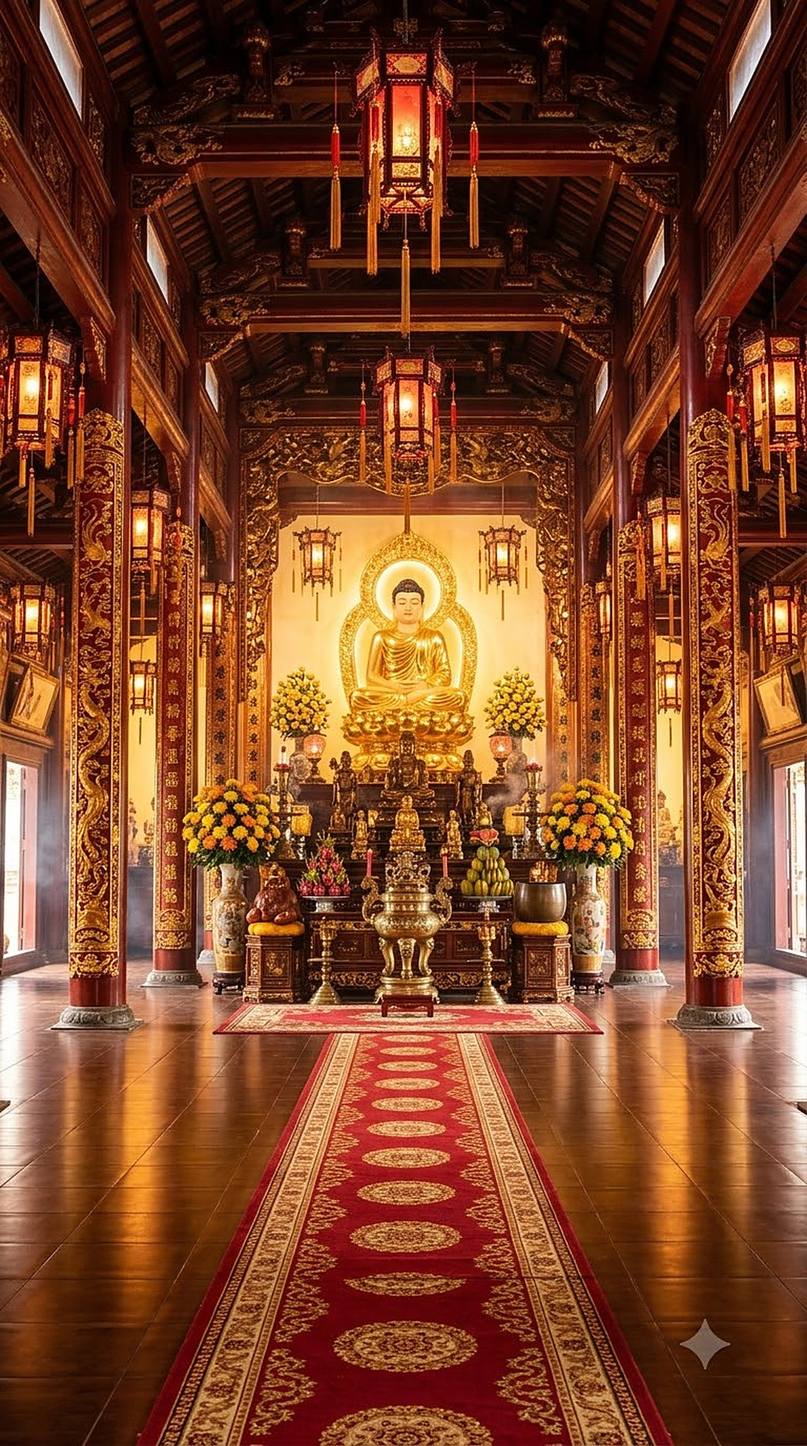
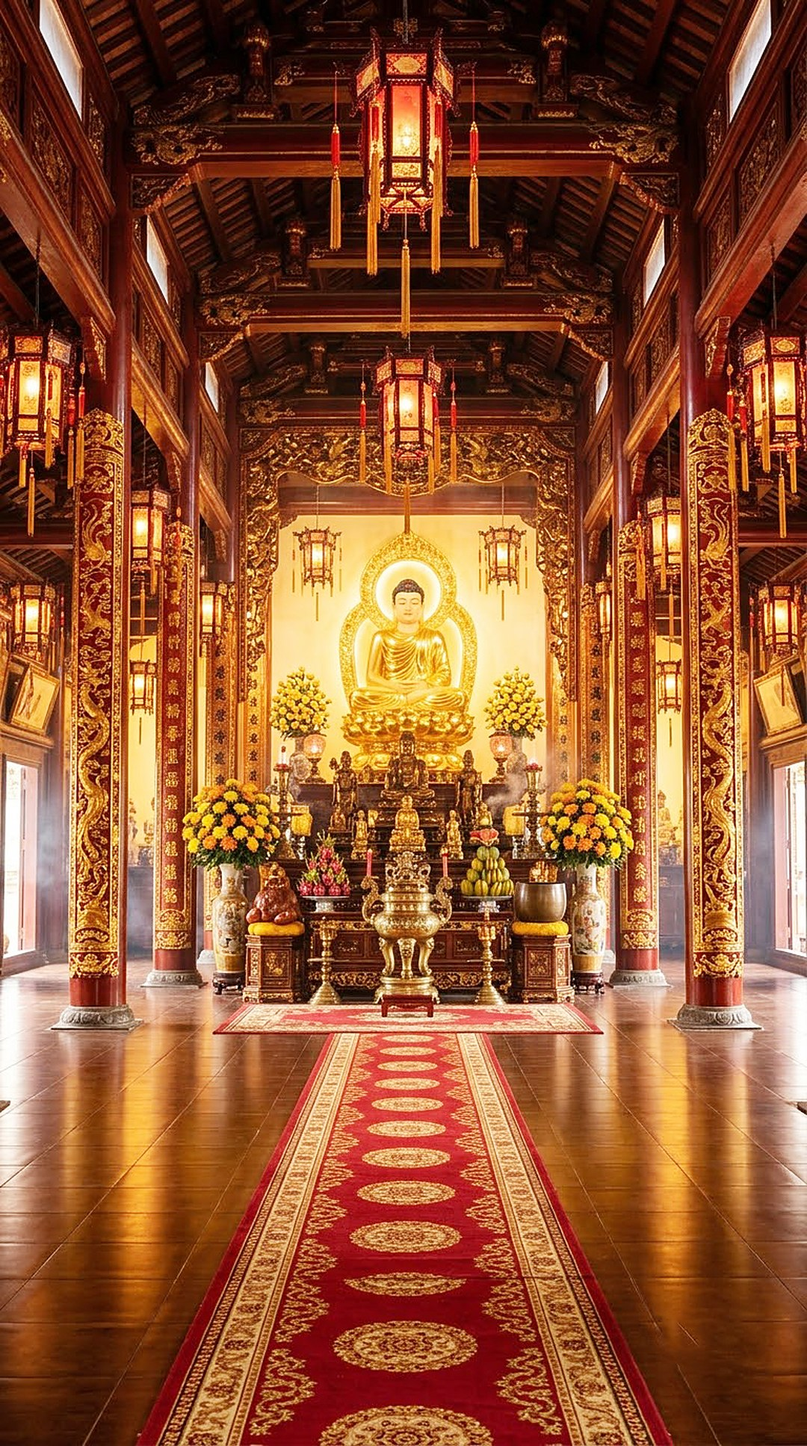
Anh chanh dien moi + huong dan ket noi YouTube, Facebook
- Render lai public/img/chanh-dien.jpg tu anh goc sep sua (1080x1935)
- docs/HUONG-DAN-YOUTUBE-FACEBOOK.md: handle YouTube, token Trang Facebook, OBS, chay 2 OBS
- config.example.json: YouTube dung handle

diff --git a/docs/HUONG-DAN-YOUTUBE-FACEBOOK.md b/docs/HUONG-DAN-YOUTUBE-FACEBOOK.md
@@ -1,0 +1,109 @@
+# Kết nối YouTube và Facebook Live
+
+Mỗi nền tảng có **khung overlay riêng**, bảng vàng / bộ đếm / giọng đọc riêng:
+
+| Nền tảng | Overlay (Browser source trong OBS) | Đọc bình luận bằng |
+|---|---|---|
+| TikTok | `http://localhost:3100/tiktok` (LIVE Studio → Link) | tên kênh TikTok |
+| YouTube | `http://localhost:3100/youtube` | @handle kênh (không cần API key) |
+| Facebook | `http://localhost:3100/facebook` | Page ID + Page Access Token |
+
+> Mỗi overlay chỉ mở **một chỗ** (một Browser source). Mở thêm ở tab trình duyệt sẽ đọc giọng 2 lần.
+
+---
+
+## 1. YouTube
+
+### 1.1. Chuẩn bị kênh (làm 1 lần)
+1. Vào **studio.youtube.com** → **Tạo** → **Phát trực tiếp**.
+2. Lần đầu YouTube bắt xác minh số điện thoại và **chờ tối đa 24 giờ** mới cho live.
+3. Lấy **@handle** kênh: góc phải YouTube → ảnh đại diện → dòng `@ten_kenh`.
+
+### 1.2. Khai báo trong `config.json`
+```json
+"youtube": { "enabled": true, "demo": false, "handle": "@ten_kenh" }
+```
+Khởi động lại server. Khi kênh chưa live, cửa sổ server báo `kênh chưa live → thử lại sau 60 giây`; lên live sẽ báo `[youtube] đang đọc chat live`.
+
+### 1.3. Lấy khoá luồng
+YouTube Studio → **Phát trực tiếp** → thẻ **Luồng (Stream)**:
+- Chế độ hiển thị: **Công khai** (để server tìm được buổi live qua @handle).
+- Bật **Trò chuyện trực tiếp (Live chat)**.
+- Độ trễ: **Độ trễ thấp**.
+- Sao chép **Khoá sự kiện trực tiếp (Stream key)**.
+
+> Muốn để **Không công khai**: điền thêm `"liveId": "<mã sau watch?v=>"` thay cho `handle`, mỗi buổi đổi mã.
+
+### 1.4. OBS
+1. **Cài đặt → Luồng**: Dịch vụ **YouTube - RTMPS** → **Sử dụng khoá luồng** → dán khoá.
+2. **Cài đặt → Video**: Độ phân giải nền **1080x1920**, đầu ra **1080x1920** (máy yếu: 720x1280), **30 FPS**.
+3. **Cài đặt → Đầu ra**: Bitrate **4500–6000 Kbps**, Khoảng khung hình chính **2 giây**, bộ mã hoá **NVENC** nếu máy có card NVIDIA.
+4. Thêm nguồn **Trình duyệt (Browser)**:
+   - URL: `http://localhost:3100/youtube`
+   - Rộng **1080**, Cao **1920**
+   - ✔ **Điều khiển âm thanh qua OBS** (để giọng đọc vào luồng)
+   - ✔ Tắt nguồn khi không hiển thị: **bỏ chọn**
+5. **Bắt đầu phát trực tiếp**. YouTube tự xếp live dọc vào mục Shorts.
+
+---
+
+## 2. Facebook (phải live trên **Trang**, không phải trang cá nhân)
+
+Facebook chỉ cho phần mềm đọc bình luận live của **Trang (Page)** mà sếp quản trị.
+
+### 2.1. Lấy Page ID
+Vào Trang → **Giới thiệu** → **Minh bạch trang** → dòng **ID Trang** (một dãy số).
+
+### 2.2. Tạo ứng dụng để lấy token (làm 1 lần)
+1. Vào **developers.facebook.com** → **Ứng dụng của tôi** → **Tạo ứng dụng**.
+   - Trường hợp sử dụng: **Khác** → Loại: **Doanh nghiệp** → đặt tên (vd `Chua Online`).
+   - Để ứng dụng ở chế độ **Phát triển** là đủ (chỉ đọc Trang của chính sếp).
+2. Mở **Công cụ → Graph API Explorer**:
+   - Ứng dụng Meta: chọn `Chua Online`.
+   - Người dùng hoặc Trang: **Mã người dùng (User Token)**.
+   - Quyền (Permissions): thêm `pages_show_list`, `pages_read_engagement`, `pages_read_user_content`.
+   - Bấm **Generate Access Token** → đăng nhập → chọn đúng Trang → Cho phép.
+3. Đổi sang **token không hết hạn**:
+   - Copy mã đang hiện → mở **Công cụ → Trình gỡ lỗi mã truy cập** → dán → **Gỡ lỗi** → **Gia hạn mã truy cập** → copy mã dài mới.
+   - Quay lại Graph API Explorer, dán mã dài vào ô Access Token, gọi `me/accounts` → **Gửi**.
+   - Trong kết quả, ở đúng Trang, copy `access_token` (đây là **Page Access Token**, không hết hạn) và `id` (là Page ID).
+
+### 2.3. Khai báo trong `config.json` (sếp tự dán, không gửi token qua chat)
+```json
+"facebook": { "enabled": true, "demo": false, "pageId": "1234567890", "pageAccessToken": "EAAB..." }
+```
+Khởi động lại server. Trang chưa live → báo `Trang chưa live → kiểm tra lại sau 60 giây`; lên live → `[facebook] đang đọc bình luận live`.
+
+> Token này đọc được Trang, **không đưa lên GitHub, không gửi ai** (`config.json` đã nằm trong `.gitignore`). Đổi mật khẩu Facebook / gỡ quyền ứng dụng thì token mất hiệu lực → làm lại bước 2.2.
+
+### 2.4. Lấy khoá luồng
+1. Vào **facebook.com/live/producer** → **Tạo video trực tiếp** → **Phần mềm phát trực tiếp**.
+2. Mục **Đăng lên**: chọn **Trang** của sếp (không chọn dòng thời gian cá nhân).
+3. Bật **Sử dụng khoá luồng cố định** (để lần sau khỏi đổi khoá trong OBS).
+4. Copy **Khoá luồng**.
+
+### 2.5. OBS
+Như YouTube, chỉ khác:
+- **Cài đặt → Luồng**: Dịch vụ **Facebook Live** → dán khoá.
+- Browser source URL: `http://localhost:3100/facebook`.
+- Bitrate tối đa Facebook **4000 Kbps** (dùng 720x1280 là đẹp và nhẹ).
+
+Bấm **Bắt đầu phát trực tiếp** trong OBS, rồi bấm **Phát trực tiếp** trên trang Live Producer.
+
+---
+
+## 3. Live YouTube + Facebook cùng lúc
+
+Hai luồng khác nhau (mỗi bên một overlay, một bảng vàng) nên cần **2 OBS chạy song song**:
+
+1. Tạo lối tắt OBS thứ hai: chuột phải lối tắt OBS → **Thuộc tính** → ô **Đích** thêm ` --multi` vào cuối → OK.
+2. Mỗi OBS dùng **Hồ sơ (Profile)** và **Bộ cảnh (Scene Collection)** riêng: OBS 1 = YouTube, OBS 2 = Facebook.
+3. Máy đang chạy cả TikTok LIVE Studio thì là **3 luồng mã hoá**: nên để YouTube / Facebook ở **720x1280**, bộ mã hoá **NVENC**, và xem **CPU < 70%** trong Trình quản lý tác vụ trước khi để chạy lâu.
+
+Kiểm tra nhanh không cần live thật: đặt `"demo": true` cho nền tảng đó → overlay tự phát sự kiện giả.
+
+## 4. Thử nhanh khi đã kết nối
+- `http://localhost:3100/test/youtube/chat?text=thắp đèn`
+- `http://localhost:3100/test/facebook/chat?text=Nam mô A Di Đà Phật`
+
+(Sự kiện thử có ghi vào bảng vàng; thử xong tắt server và xoá `data/youtube.json` / `data/facebook.json`.)
